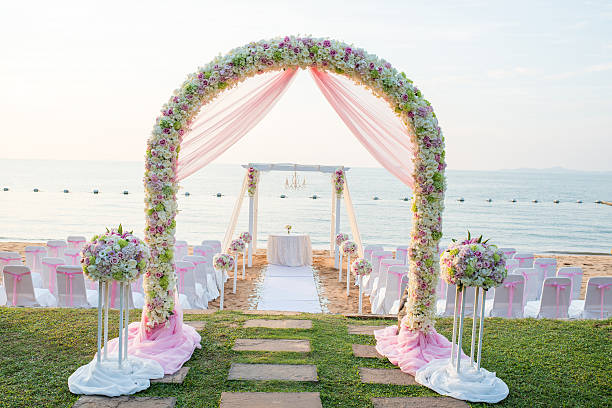
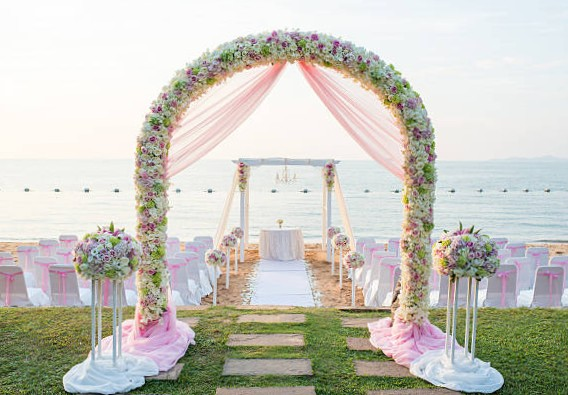
Add HeroWave component and update HeroSection styles for improved layout and responsiveness

diff --git a/src/index.css b/src/index.css
@@ -118,8 +118,9 @@ h3 {
   min-height: clamp(620px, 92vh, 720px);
   background-color: var(--navy);
   background-image: url("/assets/canva-design-reference.png");
-  background-size: 100% 100%;
-  background-position: center;
+  background-size: cover;
+  background-position: center 55%;
+  background-repeat: no-repeat;
   overflow: hidden;
 }
 
@@ -149,7 +150,7 @@ h3 {
   font-size: clamp(1.35rem, 4.4vw, 3rem);
   letter-spacing: 0.2em;
   text-transform: uppercase;
-  max-width: 22ch;
+  text-wrap: balance;
 }
 
 .hero-tagline {
@@ -165,11 +166,12 @@ h3 {
 }
 
 .hero-wave {
-  position: absolute;
-  left: 0;
-  right: 0;
-  bottom: -1px;
-  z-index: 3;
+  position: relative;
+  z-index: 2;
+  width: 100%;
+  height: clamp(45px, 6vw, 100px);
+  margin-top: calc(-1 * clamp(45px, 6vw, 100px));
+  overflow: hidden;
   line-height: 0;
   pointer-events: none;
 }
@@ -177,7 +179,7 @@ h3 {
 .hero-wave svg {
   display: block;
   width: 100%;
-  height: clamp(48px, 8vw, 110px);
+  height: 100%;
 }
 
 /* ---------- Services ---------- */

diff --git a/src/components/HeroSection.jsx b/src/components/HeroSection.jsx
@@ -14,15 +14,6 @@ export default function HeroSection() {
           Member Requests Registration
         </a>
       </div>
-
-      <div className="hero-wave" aria-hidden="true">
-        <svg viewBox="0 0 1440 120" preserveAspectRatio="none" focusable="false">
-          <path
-            d="M0,72 C180,120 360,24 540,32 C720,40 900,116 1080,104 C1260,92 1360,52 1440,64 L1440,120 L0,120 Z"
-            fill="#f5f0e7"
-          />
-        </svg>
-      </div>
     </header>
   );
 }

diff --git a/src/components/HeroWave.jsx b/src/components/HeroWave.jsx
@@ -1,0 +1,21 @@
+export default function HeroWave() {
+  return (
+    <div className="hero-wave" aria-hidden="true">
+      <svg
+        viewBox="0 0 1440 100"
+        preserveAspectRatio="none"
+        xmlns="http://www.w3.org/2000/svg"
+        focusable="false"
+      >
+        <path
+          d="M0,50
+         C240,85 480,85 720,50
+         C960,15 1200,15 1440,50
+         L1440,100
+         L0,100 Z"
+          fill="#f5f0e7"
+        />
+      </svg>
+    </div>
+  );
+}

diff --git a/src/App.jsx b/src/App.jsx
@@ -1,4 +1,5 @@
 import HeroSection from "./components/HeroSection.jsx";
+import HeroWave from "./components/HeroWave.jsx";
 import ServicesSection from "./components/ServicesSection.jsx";
 import ContactCTA from "./components/ContactCTA.jsx";
 import SiteFooter from "./components/SiteFooter.jsx";
@@ -7,6 +8,7 @@ export default function App() {
   return (
     <>
       <HeroSection />
+      <HeroWave />
       <main>
         <ServicesSection />
         <ContactCTA />
